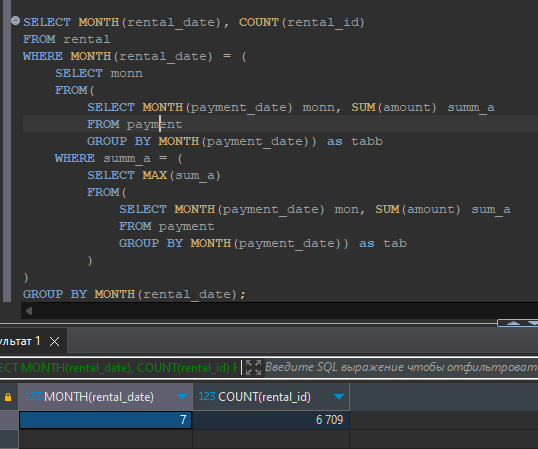
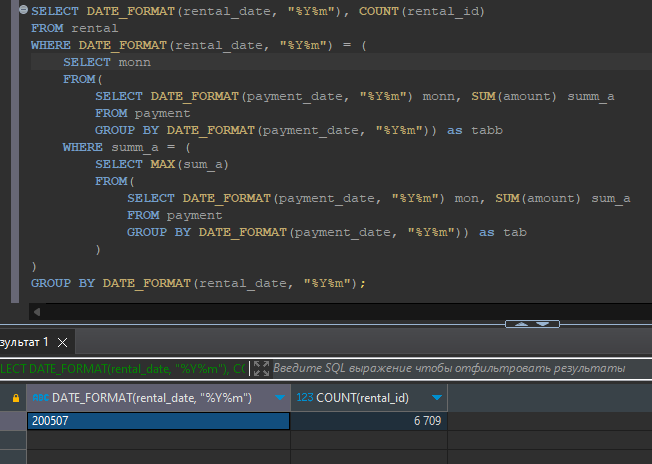
12-04 3 fixed

Changed region(s): [[0.0, 0.0, 1.0, 1.0], [0.4758, 0.5924, 0.5651, 0.6236]]

diff --git a/12-04.md b/12-04.md
@@ -54,23 +54,23 @@ WHERE `length` > (SELECT AVG(`length`) FROM film);
 Получите информацию, за какой месяц была получена наибольшая сумма платежей, и добавьте информацию по количеству аренд за этот месяц.
 
 ```
-SELECT MONTH(rental_date), COUNT(rental_id)
+SELECT DATE_FORMAT(rental_date, "%Y%m"), COUNT(rental_id)
 FROM rental
-WHERE MONTH(rental_date) = (
+WHERE DATE_FORMAT(rental_date, "%Y%m") = (
 	SELECT monn
 	FROM(
-		SELECT MONTH(payment_date) monn, SUM(amount) summ_a
+		SELECT DATE_FORMAT(payment_date, "%Y%m") monn, SUM(amount) summ_a
 		FROM payment
-		GROUP BY MONTH(payment_date)) as tabb
+		GROUP BY DATE_FORMAT(payment_date, "%Y%m")) as tabb
 	WHERE summ_a = (
 		SELECT MAX(sum_a)
 		FROM(
-			SELECT MONTH(payment_date) mon, SUM(amount) sum_a
+			SELECT DATE_FORMAT(payment_date, "%Y%m") mon, SUM(amount) sum_a
 			FROM payment
-			GROUP BY MONTH(payment_date)) as tab
+			GROUP BY DATE_FORMAT(payment_date, "%Y%m")) as tab
 		) 
 )
-GROUP BY MONTH(rental_date);
+GROUP BY DATE_FORMAT(rental_date, "%Y%m");
 ```
 ![](img/12-04/3.png)
 
